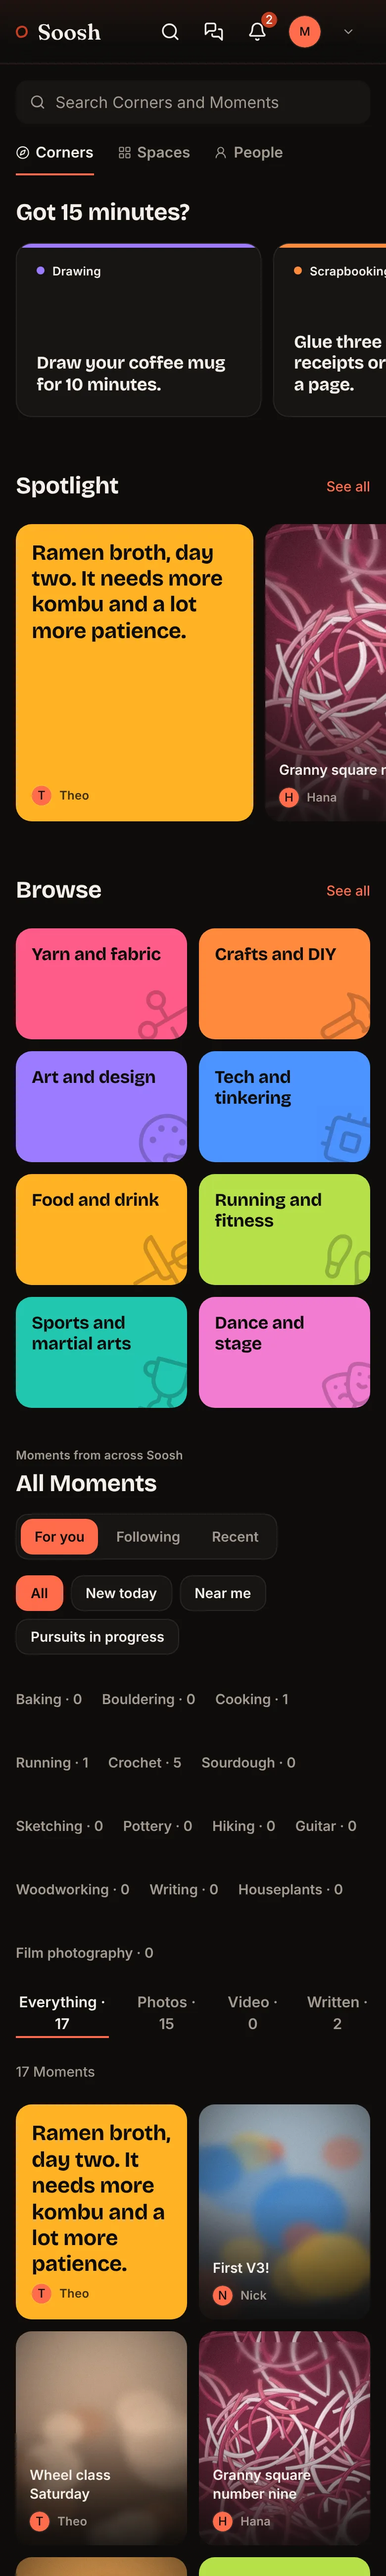
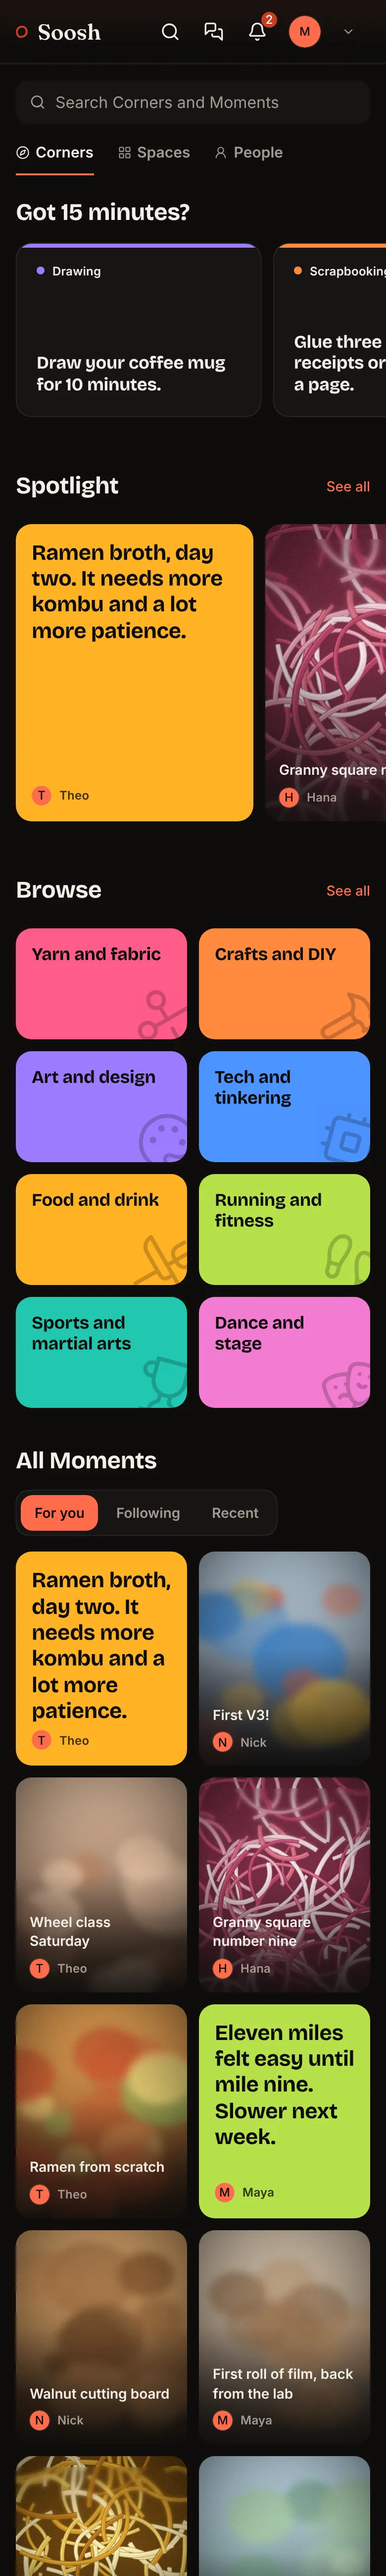
After hours v1 review fixes: All Moments is one row, Corner back link goes to its category
- All Moments keeps only For you, Following and Recent. The All / New today /
  Near me / Pursuits row, the Corner chips with counts and the Everything /
  Photos / Video / Written row are gone, with their state and the unused
  discoverMedia helper. No count of 0 is shown on Discover, Corner or category pages.
- The kicker above All Moments is gone.
- A Corner page's back link reads Back to <category> and opens that category page.

Claude-Session: https://claude.ai/code/session_01Ax4czVwyaCLsaHaXXLeQBZ

diff --git a/src/app/pages/Discover.tsx b/src/app/pages/Discover.tsx
@@ -1,4 +1,4 @@
-import { useEffect, useMemo, useState, type CSSProperties } from "react";
+import { useEffect, useMemo, useState } from "react";
 import { Link, useSearchParams } from "react-router";
 import { useHistoryState, useRowScrollMemory } from "../lib/useHistoryState";
 import { cornerStyle } from "../lib/categoryStyle";
@@ -16,16 +16,15 @@ import {
   UserRound,
   X,
 } from "lucide-react";
-import { marketplaceEnabled, APP_NAME } from "../config";
+import { marketplaceEnabled } from "../config";
 import { hobbies, subHobbyLabel } from "../data/hobbies";
-import { Post, postCorner } from "../data/posts";
+import { Post } from "../data/posts";
 import { Product } from "../data/products";
 import { useContent } from "../context/ContentContext";
 import { useAuth } from "../context/AuthContext";
 import { useSocial } from "../context/SocialContext";
-import { useCorners, isBrowsableOnDiscover, cornerFollowKey } from "../context/CornersContext";
+import { useCorners, isBrowsableOnDiscover } from "../context/CornersContext";
 import { useCategories } from "../context/CategoriesContext";
-import { deriveProjects } from "../lib/journal";
 import { fetchFollowingIds } from "../lib/profileFollows";
 import { supabase } from "../../lib/supabase";
 import { track } from "../lib/analytics";
@@ -37,7 +36,6 @@ import { MomentCardSkeleton, MomentGridSkeleton } from "../components/Skeletons"
 import { EmptyState, ErrorNotice } from "../components/StateViews";
 import { Button } from "../components/ui/button";
 import { PeopleBrowser } from "./People";
-import { MediaFilter, matchesMediaFilter } from "../components/discover/discoverMedia";
 import { QuickStarts } from "../components/discover/QuickStarts";
 import { plural } from "../lib/plural";
 import { scrollBehavior } from "../lib/scrollToElement";
@@ -53,17 +51,7 @@ import { scrollBehavior } from "../lib/scrollToElement";
  */
 const PAGE_SIZE = 24;
 
-const DAY = 86_400_000;
 const HOUR = 3_600_000;
-
-type Chip = { id: string; label: string };
-
-const BASE_CHIPS: Chip[] = [
-  { id: "all", label: "All" },
-  { id: "new", label: "New today" },
-  { id: "near", label: "Near me" },
-  { id: "progress", label: "Pursuits in progress" },
-];
 
 /** Corners / Spaces / People / Marketplace — Discover's own front door, kept
  * in ?tab= so it's shareable and survives a back button, same as any other
@@ -99,13 +87,6 @@ const FEED_TABS = [
   { id: "recent", label: "Recent" },
 ] as const;
 type FeedTab = (typeof FEED_TABS)[number]["id"];
-
-const MEDIA_FILTERS: { id: MediaFilter; label: string }[] = [
-  { id: "all", label: "Everything" },
-  { id: "photo", label: "Photos" },
-  { id: "video", label: "Video" },
-  { id: "written", label: "Written" },
-];
 
 /**
  * Shared look for every navigational tab/filter on this page: plain
@@ -335,7 +316,6 @@ export function Discover() {
   // Subscribing re-renders this page when admin Space changes load.
   const { spaceRows } = useCategories();
   const social = useSocial();
-  const { cornersFor, cornerThreshold } = useCorners();
   const [searchParams, setSearchParams] = useSearchParams();
   const [query, setQuery] = useState(searchParams.get("about") ?? "");
   // Opening a Featured Moment is how you react to it or leave a thought —
@@ -365,13 +345,7 @@ export function Discover() {
   // Kept across Back so returning from a Moment or Corner finds the list as
   // long as you left it (see useHistoryState).
   const [feedTab, setFeedTab] = useHistoryState<FeedTab>("discover.feedTab", "forYou");
-  const [chip, setChip] = useHistoryState("discover.chip", "all");
   const [shown, setShown] = useHistoryState("discover.shown", PAGE_SIZE);
-  // Flat now, not nested under a Space filter — Corners are the top-level
-  // browse/filter unit (spec change: "Corners carry discovery"). Synced to
-  // ?corner= so a filtered view is shareable, same as ?tab=.
-  const [cornerFilter, setCornerFilter] = useState(searchParams.get("corner") ?? "");
-  const [mediaFilter, setMediaFilter] = useHistoryState<MediaFilter>("discover.mediaFilter", "all");
   const spotlightRow = useRowScrollMemory("discover.spotlight");
   const tabsRow = useRowScrollMemory("discover.tabs");
 
@@ -417,17 +391,6 @@ export function Discover() {
 
   const q = query.trim().toLowerCase();
 
-  // Ongoing work, so "Projects in progress" means something specific rather
-  // than being a mood.
-  const projects = useMemo(
-    () => deriveProjects(publicFeed, subHobbyLabel),
-    [publicFeed],
-  );
-  const inProgressIds = useMemo(
-    () => new Set(projects.flatMap((p) => p.updates.map((u) => u.id))),
-    [projects],
-  );
-
   const featured = useMemo(
     () => rankFeatured(publicFeed, social.followedHobbies, 10),
     [publicFeed, social.followedHobbies],
@@ -436,46 +399,6 @@ export function Discover() {
   // Category is internal-only now (never shown), but its name/keywords
   // still feed search matching — see spaceScoped's own text match below.
   const hobbyBySlug = useMemo(() => new Map(hobbies.map((h) => [h.slug, h])), [spaceRows]);
-
-  // Every Corner across every (internal) Category, flat — Corners are the
-  // one browse/filter unit Discover shows now. Query-matched by name, same
-  // promise the search box always made ("pottery" should find Pottery).
-  const allCorners = useMemo(
-    () => hobbies.filter((h) => !h.hidden).flatMap((h) => cornersFor(h.slug)),
-    [cornersFor, spaceRows],
-  );
-  const matchingCorners = useMemo(() => {
-    if (!q) return allCorners;
-    return allCorners.filter((c) => c.name.toLowerCase().includes(q));
-  }, [allCorners, q]);
-  // Private Interests (hobby_follows, Corner-level — see CornersContext's
-  // cornerFollowKey) get first billing here, the one place this rework
-  // wires them into anything: your own Interest Corners that clear the
-  // same Discover threshold as everyone else (no exemption — an Interest
-  // nobody's posted in lately still doesn't show), then everything else.
-  // No other ranking changes; this is deliberately the only place Interests
-  // touch Discover right now.
-  const myInterestCorners = useMemo(
-    () => new Set(social.followedHobbies.filter((k) => k.includes(":") && !k.startsWith("space:"))),
-    [social.followedHobbies],
-  );
-
-  // What Discover actually shows: no empty Corner, curated or not — at
-  // least `cornerThreshold` Moments in the last 30 days, or an active
-  // Space. Ordered by that same 30-day activity within each group, never
-  // by follower/member counts (per this rework's own instruction).
-  const browsableCorners = useMemo(
-    () =>
-      matchingCorners
-        .filter((c) => isBrowsableOnDiscover(c, cornerThreshold))
-        .sort((a, b) => {
-          const aMine = myInterestCorners.has(cornerFollowKey(a.spaceSlug, a.slug));
-          const bMine = myInterestCorners.has(cornerFollowKey(b.spaceSlug, b.slug));
-          if (aMine !== bMine) return aMine ? -1 : 1;
-          return b.momentCount30d - a.momentCount30d;
-        }),
-    [matchingCorners, cornerThreshold, myInterestCorners],
-  );
 
   const feedBase = useMemo(() => {
     if (feedTab === "recent") return [...publicFeed].sort((a, b) => b.createdAt - a.createdAt);
@@ -512,71 +435,21 @@ export function Discover() {
     // eslint-disable-next-line react-hooks/exhaustive-deps
   }, [feedTab, followingIds.length, memberSpacePostIds.size]);
 
-  // Space-scoped, but not yet narrowed by Corner or media type — this is
-  // what the Corner filter row's own live counts are measured against, so
-  // picking a Corner doesn't make every other Corner's count collapse to 0.
-  const chipScoped = useMemo(() => {
-    let list = feedBase;
-    if (chip === "new") list = list.filter((p) => Date.now() - p.createdAt < DAY);
-    else if (chip === "progress") list = list.filter((p) => inProgressIds.has(p.id));
-
-    if (q) {
-      list = list.filter((p) => {
-        const hobby = hobbyBySlug.get(p.hobbySlug);
-        return (
-          p.caption.toLowerCase().includes(q) ||
-          p.creator.toLowerCase().includes(q) ||
-          (p.interest ?? "").toLowerCase().includes(q) ||
-          (p.subHobby ? (subHobbyLabel(p.subHobby) ?? "").toLowerCase().includes(q) : false) ||
-          (hobby ? hobby.shortName.toLowerCase().includes(q) || hobby.name.toLowerCase().includes(q) : false)
-        );
-      });
-    }
-    return list;
-  }, [feedBase, chip, q, inProgressIds, hobbyBySlug]);
-
-  // Live counts for the flat Corner-filter row below, measured against the
-  // chip/query-scoped feed so picking a Corner doesn't collapse every
-  // other Corner's count to 0.
-  const cornerCounts = useMemo(() => {
-    const counts = new Map<string, number>();
-    for (const p of chipScoped) {
-      const slug = postCorner(p);
-      if (!slug) continue;
-      counts.set(slug, (counts.get(slug) ?? 0) + 1);
-    }
-    return counts;
-  }, [chipScoped]);
-
-  const scoped = useMemo(
-    () => (cornerFilter ? chipScoped.filter((p) => postCorner(p) === cornerFilter) : chipScoped),
-    [chipScoped, cornerFilter],
-  );
-
-  const mediaCounts = useMemo(
-    () => ({
-      all: scoped.length,
-      photo: scoped.filter((p) => matchesMediaFilter(p, "photo")).length,
-      video: scoped.filter((p) => matchesMediaFilter(p, "video")).length,
-      written: scoped.filter((p) => matchesMediaFilter(p, "written")).length,
-    }),
-    [scoped],
-  );
-
-  const filtered = useMemo(
-    () => (mediaFilter === "all" ? scoped : scoped.filter((p) => matchesMediaFilter(p, mediaFilter))),
-    [scoped, mediaFilter],
-  );
-
-  function selectCorner(slug: string) {
-    const next = cornerFilter === slug ? "" : slug;
-    setCornerFilter(next);
-    setShown(PAGE_SIZE);
-    const params = new URLSearchParams(searchParams);
-    if (next) params.set("corner", next);
-    else params.delete("corner");
-    setSearchParams(params, { replace: true });
-  }
+  // The feed, narrowed only by the search (the All Moments row is For you,
+  // Following or Recent; there are no other filters).
+  const filtered = useMemo(() => {
+    if (!q) return feedBase;
+    return feedBase.filter((p) => {
+      const hobby = hobbyBySlug.get(p.hobbySlug);
+      return (
+        p.caption.toLowerCase().includes(q) ||
+        p.creator.toLowerCase().includes(q) ||
+        (p.interest ?? "").toLowerCase().includes(q) ||
+        (p.subHobby ? (subHobbyLabel(p.subHobby) ?? "").toLowerCase().includes(q) : false) ||
+        (hobby ? hobby.shortName.toLowerCase().includes(q) || hobby.name.toLowerCase().includes(q) : false)
+      );
+    });
+  }, [feedBase, q, hobbyBySlug]);
 
   const visible = filtered.slice(0, shown);
   const remaining = filtered.length - visible.length;
@@ -691,10 +564,7 @@ export function Discover() {
 
               {/* All Moments */}
               <div id="all-moments" className={`${TITLE_GAP} flex flex-wrap items-center justify-between gap-4`}>
-                <div>
-                  <div className="mb-2 text-caption text-muted-foreground">Moments from across {APP_NAME}</div>
-                  <h2 className="text-title">All Moments</h2>
-                </div>
+                <h2 className="text-title">All Moments</h2>
                 <ul role="tablist" aria-label="All Moments" className="flex gap-1 rounded-control border border-border bg-card p-1">
                   {FEED_TABS.map(({ id, label }) => {
                     const active = feedTab === id;
@@ -722,100 +592,13 @@ export function Discover() {
                 </ul>
               </div>
 
-              {/* De-emphasized filters — real, but secondary to the tabs above */}
-              <ul className="ns-discover-filters mb-6 flex flex-wrap gap-2">
-                {BASE_CHIPS.map((c) => {
-                  const active = chip === c.id;
-                  return (
-                    <li key={c.id}>
-                      <button
-                        type="button"
-                        aria-pressed={active}
-                        onClick={() => {
-                          setChip(c.id);
-                          setShown(PAGE_SIZE);
-                        }}
-                        className={`min-h-9 rounded-control border px-3.5 text-small font-semibold transition-colors ${
-                          active
-                            ? "border-transparent bg-[var(--accent)] text-[var(--accent-foreground)]"
-                            : "border-border bg-card text-foreground hover:bg-surface-raised"
-                        }`}
-                      >
-                        {c.label}
-                      </button>
-                    </li>
-                  );
-                })}
-              </ul>
-
-              {/* Corner filter — flat now, not a Space-then-Corner drill-down:
-                  Corners are Discover's one browse/filter unit (spec change,
-                  "Corners carry discovery"). Same no-empty-Corner set
-                  browsableCorners already filters for the grid above,
-                  ordered by 30-day activity — never by follower/member
-                  counts. */}
-              {browsableCorners.length > 0 && (
-                <ul className="mb-4 flex flex-wrap items-center gap-5">
-                  {browsableCorners.map((c) => {
-                    const active = cornerFilter === c.slug;
-                    const count = cornerCounts.get(c.slug) ?? 0;
-                    return (
-                      <li key={`${c.spaceSlug}-${c.slug}`}>
-                        <button
-                          type="button"
-                          aria-pressed={active}
-                          onClick={() => selectCorner(c.slug)}
-                          className={tabLabelClass(active, "xs")}
-                        >
-                          {c.name} · {count}
-                        </button>
-                      </li>
-                    );
-                  })}
-                </ul>
+              {q && filtered.length > 0 && (
+                <p className="mb-6 text-small text-muted-foreground">{`${plural(filtered.length, "Moment")} matching “${query}”`}</p>
               )}
-
-              {/* Media type — same plain-text, underline-on-active look as
-                  the top-level Discover tabs and the Corner row above, per
-                  the brief: navigational filters read as text choices, not
-                  filled pills. "Log a Moment" is the one thing on this page
-                  that stays a solid button. */}
-              <ul className="mb-6 flex items-center gap-6" role="tablist" aria-label="Media type">
-                {MEDIA_FILTERS.map(({ id, label }) => {
-                  const active = mediaFilter === id;
-                  return (
-                    <li key={id}>
-                      <button
-                        type="button"
-                        role="tab"
-                        aria-selected={active}
-                        onClick={() => {
-                          setMediaFilter(id);
-                          setShown(PAGE_SIZE);
-                        }}
-                        className={tabLabelClass(active)}
-                      >
-                        {label} · {mediaCounts[id]}
-                      </button>
-                    </li>
-                  );
-                })}
-              </ul>
-
-              <p className="mb-6 text-small text-muted-foreground">
-                {chip === "near"
-                  ? "Location isn’t switched on yet."
-                  : `${plural(filtered.length, "Moment")}${q ? ` matching “${query}”` : ""}`}
-              </p>
 
               <Loadable loading={postsStatus === "loading"} skeleton={<MomentGridSkeleton count={6} />}>
               {postsStatus === "error" && publicFeed.length === 0 ? (
                 <ErrorNotice onRetry={reloadPosts} />
-              ) : chip === "near" ? (
-                <EmptyState
-                  line={`${APP_NAME} doesn’t know where you are, and won’t until you tell it.`}
-                  action={{ label: "Browse Moments", onClick: () => setChip("all") }}
-                />
               ) : visible.length === 0 ? (
                 feedTab === "following" ? (
                   <EmptyState

diff --git a/src/app/pages/Corner.tsx b/src/app/pages/Corner.tsx
@@ -8,6 +8,7 @@ import { useContent } from "../context/ContentContext";
 import { PressLink } from "../components/afterhours/PressLink";
 import { Reveal } from "../components/afterhours/Reveal";
 import { MomentTile } from "../components/afterhours/MomentTile";
+import { categoryOfCorner } from "../data/cornerCategories";
 import { cornerStyle } from "../lib/categoryStyle";
 import { fillRows } from "../lib/fillRows";
 import { PAGE_X } from "../lib/pageGrid";
@@ -72,7 +73,12 @@ export function CornerPage() {
   const prefill = `hobby=${encodeURIComponent(spaceSlug)}&sub=${encodeURIComponent(corner.slug)}`;
   const posts = publicFeed.filter((p) => p.hobbySlug === spaceSlug && postCorner(p) === corner.slug);
 
-  const spaceName = hobbies.find((h) => h.slug === spaceSlug)?.shortName ?? spaceSlug;
+  // Back goes to the Corner's category page ("Back to Yarn and fabric"). Only a
+  // Corner not in any category yet falls back to its old Space.
+  const category = categoryOfCorner(spaceSlug, corner.slug);
+  const back = category
+    ? { to: `/browse/${category.slug}`, label: category.name }
+    : { to: `/space/${spaceSlug}`, label: hobbies.find((h) => h.slug === spaceSlug)?.shortName ?? spaceSlug };
   const [lead, ...rest] = posts;
   // Whole rows only (see lib/fillRows.ts); "Show more" brings in the rest.
   const n = rest.length;
@@ -88,8 +94,8 @@ export function CornerPage() {
       {/* The Corner's category colour, full width, behind its name. */}
       <header className="bg-[var(--cat)] text-[var(--ink)]">
         <div className={`${PAGE_X} py-8 md:py-12`}>
-          <Link to={`/space/${spaceSlug}`} className={`inline-flex min-h-11 items-center text-small hover:underline ${dim}`}>
-            ← Back to {spaceName}
+          <Link to={back.to} className={`inline-flex min-h-11 items-center text-small hover:underline ${dim}`}>
+            ← Back to {back.label}
           </Link>
           <h1 className="mt-6 text-display">{corner.name}</h1>
           {about && <p className={`mt-3 max-w-xl text-body ${dim}`}>{about}</p>}
